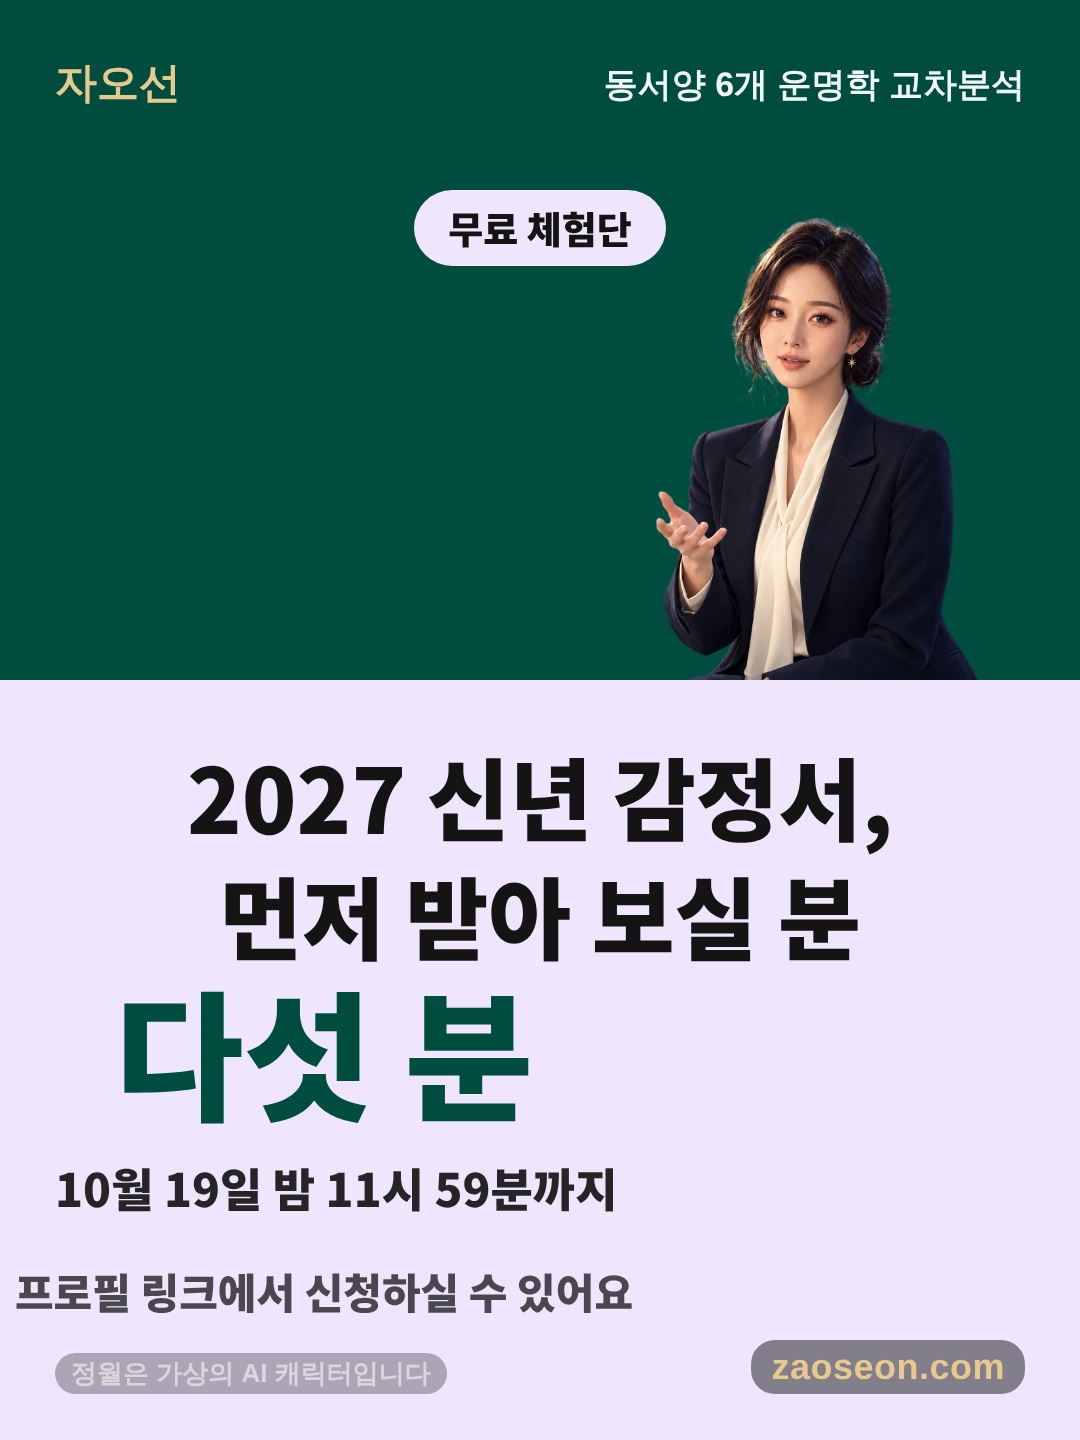
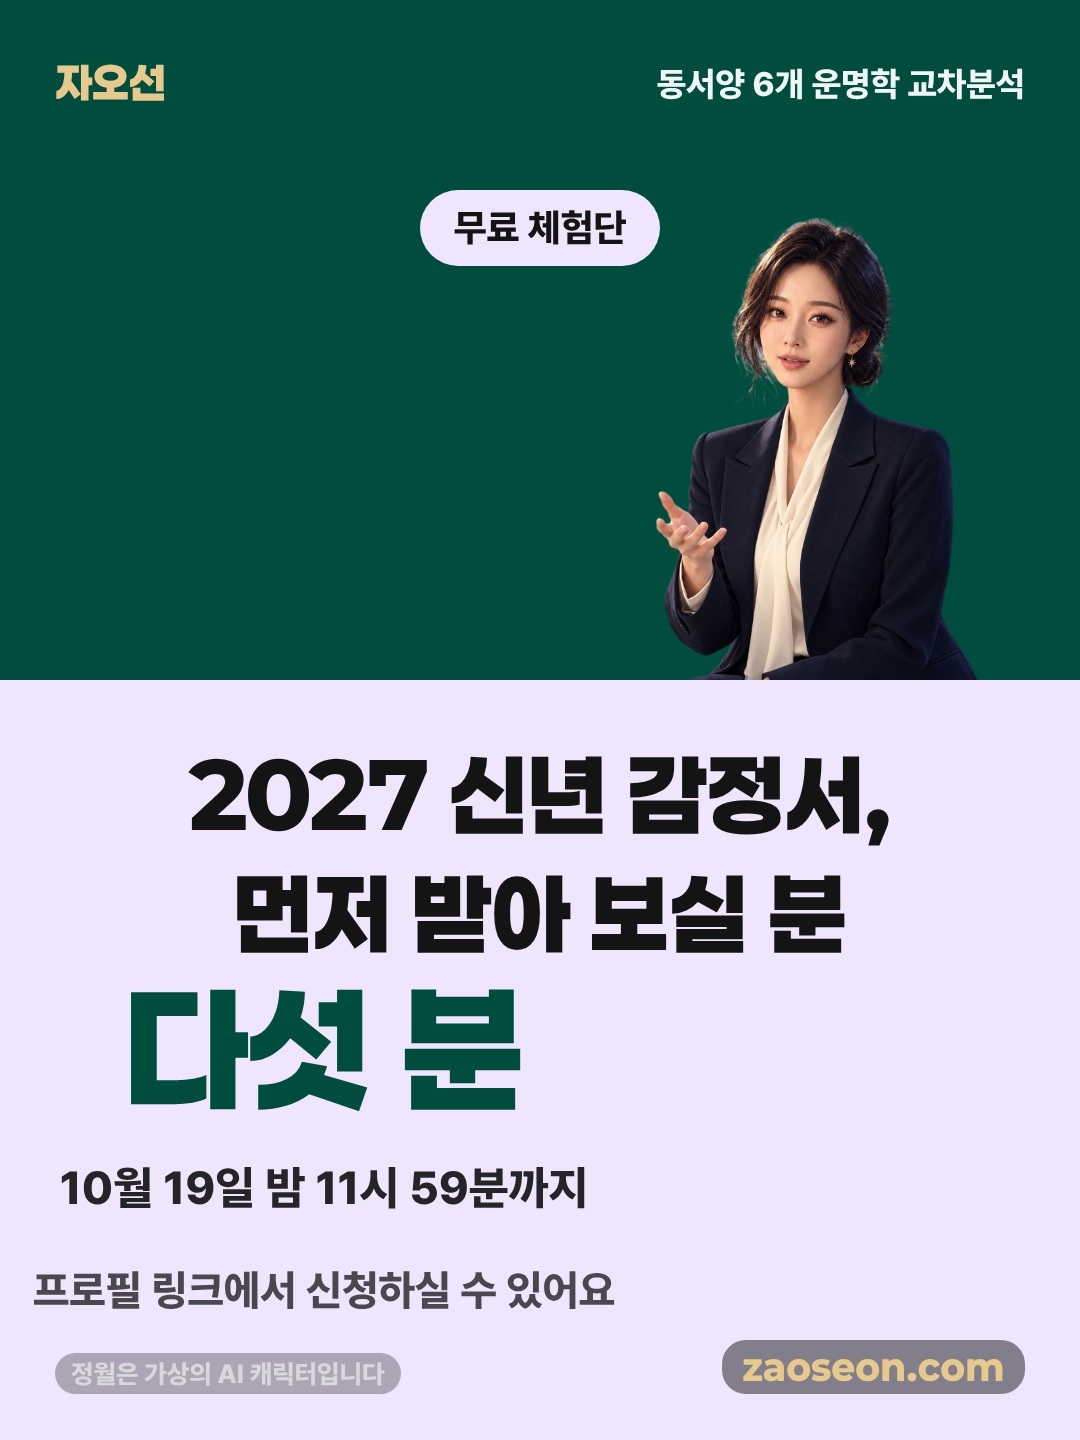
글꼴이 아예 안 실리고 있었다 — base64 로 박아 넣는 css_inline 추가 (대표 10/16 '폰트가 왜 이모양이냐고')
set_content() 로 띄운 문서는 origin 이 about:blank 라 file:// 글꼴을 못 읽는다.
document.fonts 가 'JW-D:error' 로 남고 브라우저 기본 고딕으로 조용히 떨어진다.
그래서 10/16 표지 세 장이 전부 기본 고딕으로 그려졌다 — 페이퍼로지를
쓴다고 적어 놓고 실제로는 한 번도 안 쓴 것이다.

fonts_kit.css_inline() 추가: 글꼴 파일을 base64 data URI 로 박는다.
헤드리스 크롬으로 HTML 을 그리는 생성기는 css() 대신 이것을 쓴다.
확인: 같은 글자 폭이 페이퍼로지 660px · 기본 고딕 756px 로 달라졌고
document.fonts 가 JW-D/900 · JW-B/900 loaded 로 바뀌었다.

오늘 같은 실수를 두 번째 한 것이다(아침에 render.mjs 가 file:// 그림을
못 읽어 같은 원인으로 막혔다). 다음부터 HTML 로 그릴 때는 글꼴·그림을
먼저 base64 로 넣고 시작한다.

Claude-Session: https://claude.ai/code/session_01FteCatzvvaHsxyBVK4nK62

diff --git a/pipeline/fonts_kit.py b/pipeline/fonts_kit.py
@@ -25,6 +25,31 @@ def css(display="gm"):
     b = f"@font-face{{font-family:JW-B;font-weight:800;src:url('{url('pr_xb')}')}}@font-face{{font-family:JW-B;font-weight:900;src:url('{url('pr_blk')}')}}"
     s = f"@font-face{{font-family:JW-S;font-weight:400 900;src:url('{url('serif')}')}}"
     return d + b + s
+
+
+def _b64(k):
+    import base64
+    return base64.b64encode(open(P[k], "rb").read()).decode()
+
+
+def css_inline(display="gm"):
+    """글꼴을 base64 로 박아 넣은 CSS.
+
+    set_content() 로 띄운 문서는 origin 이 about:blank 라 file:// 글꼴을 못 읽는다
+    (document.fonts 가 'error' 로 남고 브라우저 기본 고딕으로 조용히 떨어진다, 10/16 확인).
+    헤드리스 크롬으로 HTML 을 그리는 생성기는 css() 대신 이것을 쓴다."""
+    def ff(fam, key, weight):
+        return (f"@font-face{{font-family:{fam};font-weight:{weight};"
+                f"src:url(data:font/opentype;base64,{_b64(key)})}}")
+    if display == "pl":
+        d = ff("JW-D", "pl_xb", 800) + ff("JW-D", "pl_blk", 900)
+    else:
+        d = ff("JW-D", "gm_bold", "700 900")
+    b = ff("JW-B", "pr_xb", 800) + ff("JW-B", "pr_blk", 900)
+    s_ = ff("JW-S", "serif", "400 900")
+    return d + b + s_
+
+
 D = "'JW-D','Noto Sans CJK KR',sans-serif"; B = "'JW-B','Noto Sans CJK KR',sans-serif"
 def pick_display(texts, pref="pl"):
     """pref 글꼴에 없는 글자가 있으면 G마켓 산스로 바꾼다."""

diff --git a/2026-igcover/build.py b/2026-igcover/build.py
@@ -192,7 +192,7 @@ def page(c, pal):
                 f'bottom:{H-face_bottom}px;height:{fh}px;z-index:2">')
 
     inner = face + band + "".join(f'<div style="z-index:5;position:absolute;inset:0">{p}</div>' for p in parts)
-    return (f'<html><head><meta charset="utf-8"><style>{K.css(c.get("display","pl"))}{BF.css(tone)}</style></head>'
+    return (f'<html><head><meta charset="utf-8"><style>{K.css_inline(c.get("display","pl"))}{BF.css(tone)}</style></head>'
             f'<body style="margin:0;width:{W}px;height:{H}px;position:relative;overflow:hidden;background:{bg};'
             f'color:{fg};word-break:keep-all;line-break:strict">'
             + inner + BF.html("card", ai=bool(c.get("face")), tone=tone) + "</body></html>")
